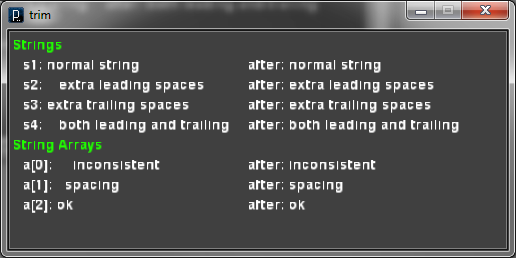
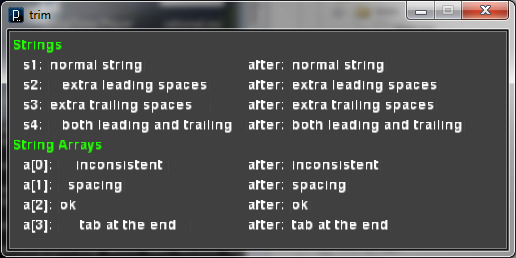
#19, fixed image and htm source code test file

diff --git a/examples/seneca/trim/trimtest.htm b/examples/seneca/trim/trimtest.htm
@@ -94,7 +94,7 @@ String s1 = "normal string";
 String s2 = "   extra leading spaces";
 String s3 = "extra trailing spaces    ";
 String s4 = "   both leading and trailing   ";
-String[] a = { "    inconsistent ", "  spacing", "ok" };
+String[] a = { "    inconsistent ", "  spacing", "ok", "     tab at the end   	"};
 String[] a2 = trim(a);
 
 PFont font;
@@ -104,17 +104,17 @@ fill(32, 255, 0);
 text("Strings", 5, 20);
 text("String Arrays", 5, 120);
 fill(255, 255, 255);
-text("s1: " + s1, 15, 40);
-text("after: " + trim(s1), 240, 40);
-text("s2: " + s2, 15, 60);
-text("after: " + trim(s2), 240, 60);
-text("s3: " + s3, 15, 80);
-text("after: " + trim(s3), 240, 80);
-text("s4: " + s4, 15, 100);
-text("after: " + trim(s4), 240, 100);
+text("s1: |" + s1 + "|", 15, 40);
+text("after: |" + trim(s1) + "|", 240, 40);
+text("s2: |" + s2 + "|", 15, 60);
+text("after: |" + trim(s2) + "|", 240, 60);
+text("s3: |" + s3 + "|", 15, 80);
+text("after: |" + trim(s3) + "|", 240, 80);
+text("s4: |" + s4 + "|", 15, 100);
+text("after: |" + trim(s4) + "|", 240, 100);
 for(int i=0; i&lt;a2.length; i++){
-  text("a[" + i + "]: " + a[i], 15, 140+(i*20));
-  text("after: " + a2[i], 240, 140+(i*20));
+  text("a[" + i + "]: |" + a[i] + "|", 15, 140+(i*20));
+  text("after: |" + a2[i] + "|", 240, 140+(i*20));
 }
         </pre>
     <br />
